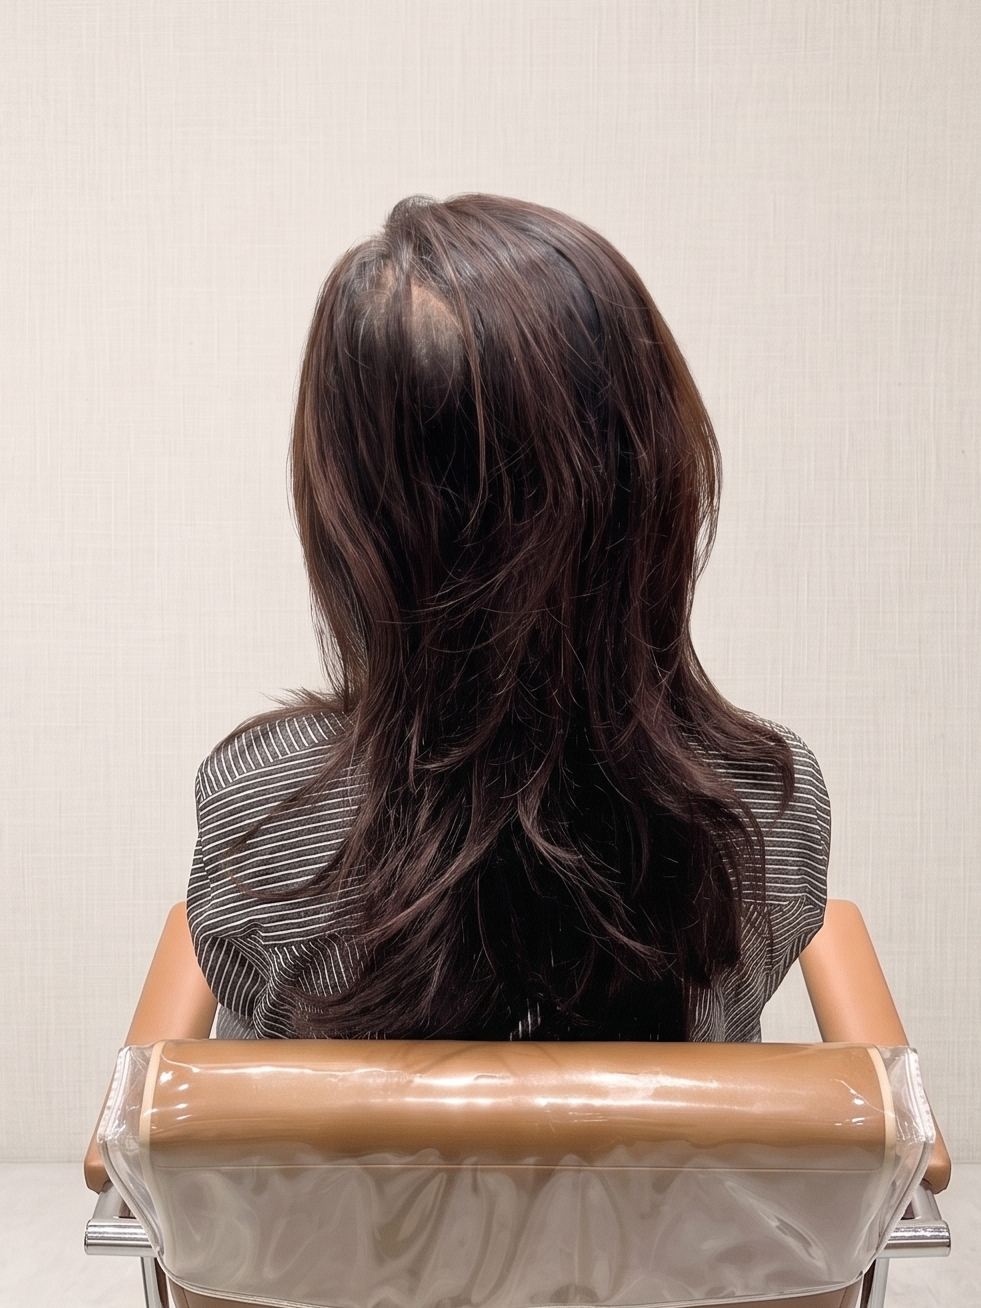
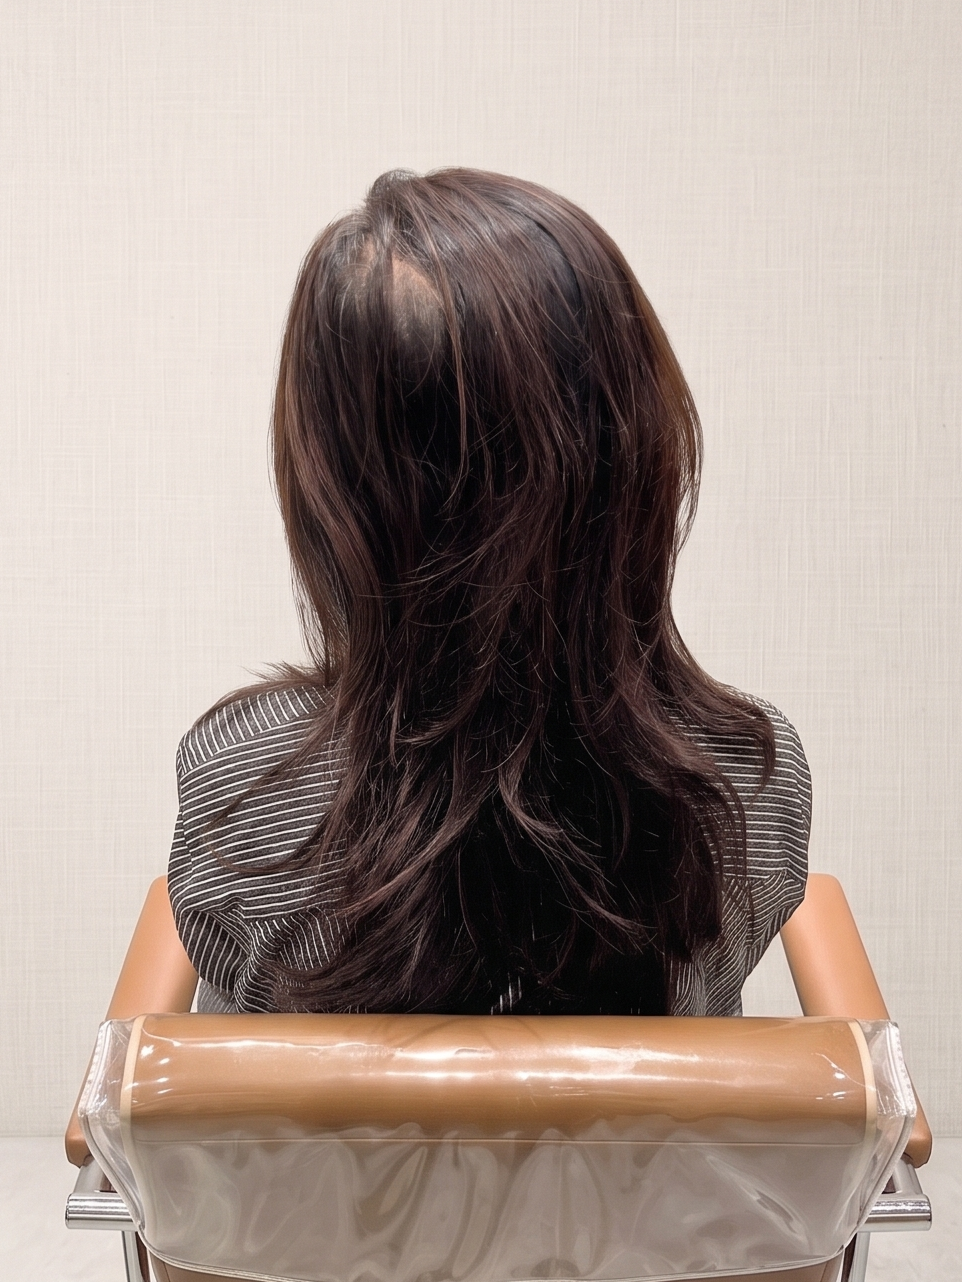
Update tab labels to 成品1/2/3, add designer to ion/curly captions, refresh two images

diff --git a/demo_v2.html b/demo_v2.html
@@ -862,11 +862,10 @@
         <div class="case-group-label">冷燙</div>
         <div class="case-group-line"></div>
       </div>
-      <div class="case-designer-badge">設計師作品</div>
       <div class="case-tabs">
-        <button class="case-tab active" data-panel="cold-renzhi">李仁智</button>
-        <button class="case-tab" data-panel="cold-gary">Gary</button>
-        <button class="case-tab" data-panel="cold-wyh">吳怡萱</button>
+        <button class="case-tab active" data-panel="cold-renzhi">成品1</button>
+        <button class="case-tab" data-panel="cold-gary">成品2</button>
+        <button class="case-tab" data-panel="cold-wyh">成品3</button>
       </div>
       <!-- 李仁智 -->
       <div class="case-panel active" id="cold-renzhi">
@@ -918,11 +917,10 @@
         <div class="case-group-label">溫塑燙</div>
         <div class="case-group-line"></div>
       </div>
-      <div class="case-designer-badge">設計師作品</div>
       <div class="case-tabs">
-        <button class="case-tab active" data-panel="warm-shijia">楊詩佳</button>
-        <button class="case-tab" data-panel="warm-lcz">林采築</button>
-        <button class="case-tab" data-panel="warm-wyh">吳怡萱</button>
+        <button class="case-tab active" data-panel="warm-shijia">成品1</button>
+        <button class="case-tab" data-panel="warm-lcz">成品2</button>
+        <button class="case-tab" data-panel="warm-wyh">成品3</button>
       </div>
       <!-- 楊詩佳 -->
       <div class="case-panel active" id="warm-shijia">
@@ -982,6 +980,7 @@
         </div>
       </div>
       <div class="case-caption">
+        <div class="case-caption-row"><span class="caption-key">設計師</span>李仁智</div>
         <div class="case-caption-row"><span class="caption-key">燙法</span>離子燙</div>
         <div class="case-caption-row"><span class="caption-key">髮型特色</span>絲滑直順，柔韌光澤，不乾澀不脆化</div>
         <div class="case-caption-row"><span class="caption-key">適合髮質</span>自然捲、毛躁髮</div>
@@ -1002,6 +1001,7 @@
         </div>
       </div>
       <div class="case-caption">
+        <div class="case-caption-row"><span class="caption-key">設計師</span>李仁智</div>
         <div class="case-caption-row"><span class="caption-key">燙法</span>電棒燙</div>
         <div class="case-caption-row"><span class="caption-key">髮型特色</span>立體大捲，彈性自然，捲度清晰不生硬</div>
         <div class="case-caption-row"><span class="caption-key">適合髮質</span>健康髮、略粗髮</div>
